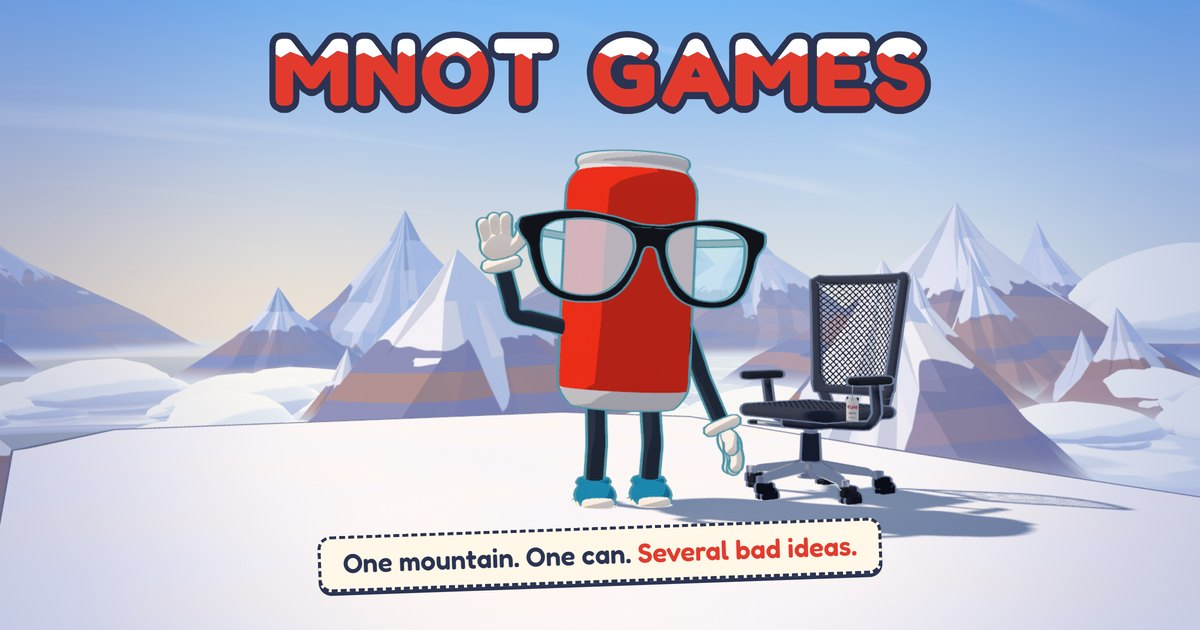
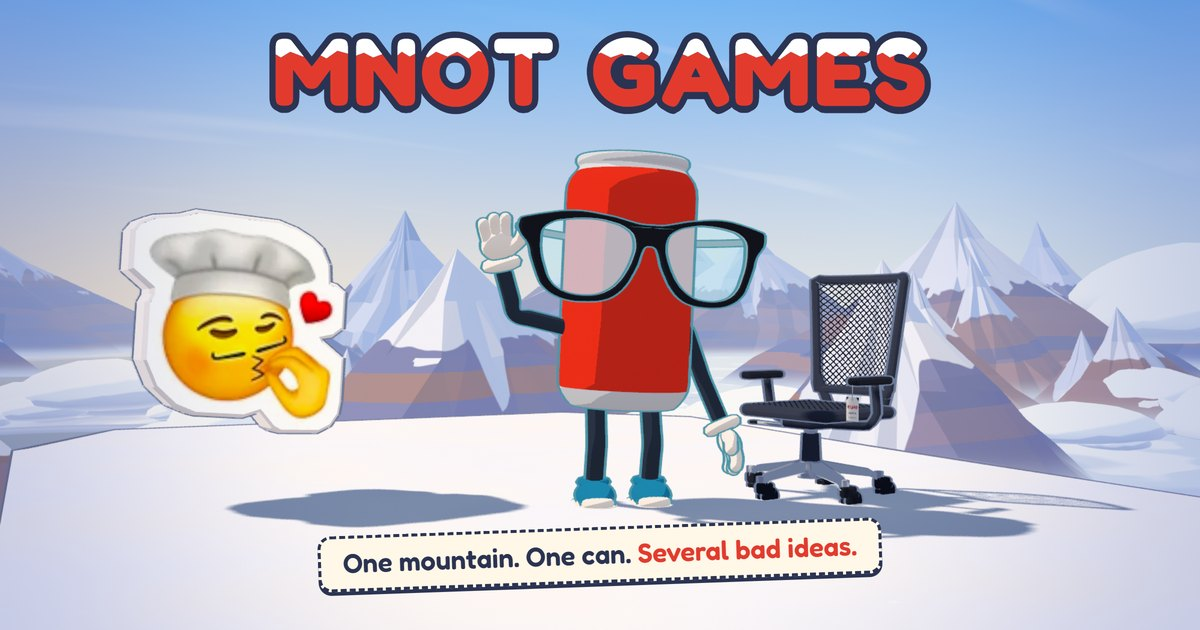
Games: the link preview shows every game
share-games.jpg dated from before Reaction Run: Mnot waving on the climb's plateau with the
downhill's office chair. It is rendered again the same way, now with a :chefskiss: token from
Reaction Run hovering on Mnot's other side. The page's description and og:description name the
three games (Peak Mnot, Mnot Downhill, Reaction Run) and the image's alt text says what's in it.
The mini-game skill now says a new game updates /games' link preview too, image and text.

Changed region(s): [[0.0925, 0.3317, 0.3083, 0.6937], [0.185, 0.754, 0.4317, 0.8444]]

diff --git a/games.html b/games.html
@@ -11,18 +11,19 @@
   window.plausible=window.plausible||function(){(plausible.q=plausible.q||[]).push(arguments)},plausible.init=plausible.init||function(i){plausible.o=i||{}};
   plausible.init({ autoCapturePageviews: location.hostname === 'peakmnot.mosredna.eu' });
 </script>
-<meta name="description" content="Mini games with Mnot, the mascot of the Met Nerds om Tafel podcast: a soda can with big glasses on one mountain.">
+<meta name="description" content="Mini games with Mnot, the mascot of the Met Nerds om Tafel podcast: climb Peak Mnot, ride an office chair down the mountain in Mnot Downhill, and fetch the thread's reactions in Reaction Run.">
 <!-- the link preview in Slack, Discord, WhatsApp and the rest (share-games.jpg is Mnot waving on the climb's
-     plateau, the downhill's chair beside him) -->
+     plateau, between a Reaction Run emoji and the downhill's chair; every game gets something in it, and a name in
+     the description) -->
 <meta property="og:type" content="website">
 <meta property="og:site_name" content="Peak Mnot">
 <meta property="og:title" content="Mnot Games">
-<meta property="og:description" content="Mini games with Mnot, the mascot of the Met Nerds om Tafel podcast: a soda can with big glasses on one mountain.">
+<meta property="og:description" content="Mini games with Mnot, the mascot of the Met Nerds om Tafel podcast: climb Peak Mnot, ride an office chair down the mountain in Mnot Downhill, and fetch the thread's reactions in Reaction Run.">
 <meta property="og:url" content="https://peakmnot.mosredna.eu/games">
 <meta property="og:image" content="https://peakmnot.mosredna.eu/share-games.jpg">
 <meta property="og:image:width" content="1200">
 <meta property="og:image:height" content="630">
-<meta property="og:image:alt" content="Mnot, a red soda can with big glasses, waving next to an office chair under the Mnot Games logo">
+<meta property="og:image:alt" content="Mnot, a red soda can with big glasses, waving between a chef's kiss emoji sticker and an office chair under the Mnot Games logo">
 <meta name="twitter:card" content="summary_large_image">
 <link rel="icon" href="favicon.png" type="image/png">
 <link rel="apple-touch-icon" href="favicon.png">

diff --git a/.claude/skills/mini-game/SKILL.md b/.claude/skills/mini-game/SKILL.md
@@ -50,8 +50,9 @@ do what it does.
 | `share-<game>.jpg` | Its link preview (Slack, Discord, WhatsApp): the title screen at 1200 x 630, a JPEG, with the logo, Mnot clear of it, and the tagline in place of the menu, linked from the page's `og:` and `twitter:` tags (the template has them), in `FILES` in `tools/build.mjs` and in the server test's list of plain files. The climb's `share.jpg` and the downhill's are the examples |
 | `games.html`, `peak/games/<game>.jpg` | Its card on the page of all the games (`/games`), with `data-goal="Play <Game>"` (a `Games: Play <Game>` goal in Plausible too), in place of the "?" card or before it, and its shot from about a quarter of the way in (800 x 500, a JPEG, never the title or the finish: no spoilers) in `THUMBS` in `peak/games/main.js` |
 
-**Every new game updates the page of all the games and the viewer**: a card and a shot on `games.html`, a tab in the
-viewer, so neither is left showing only the games before it.
+**Every new game updates the page of all the games and the viewer**: a card and a shot on `games.html`, the page's
+link preview (something of the game in `share-games.jpg`, its name in the `description` and `og:description`, the
+`og:image:alt` to match), a tab in the viewer, so none is left showing only the games before it.
 
 Also: one line in `PAGES` in `tools/build.mjs`, its own port in `.claude/launch.json` while it's being made (copy
 the `downhill` entry), a row in the table in `docs/agents.md` ("The mini games"), and in `peak/README.md` if it adds
